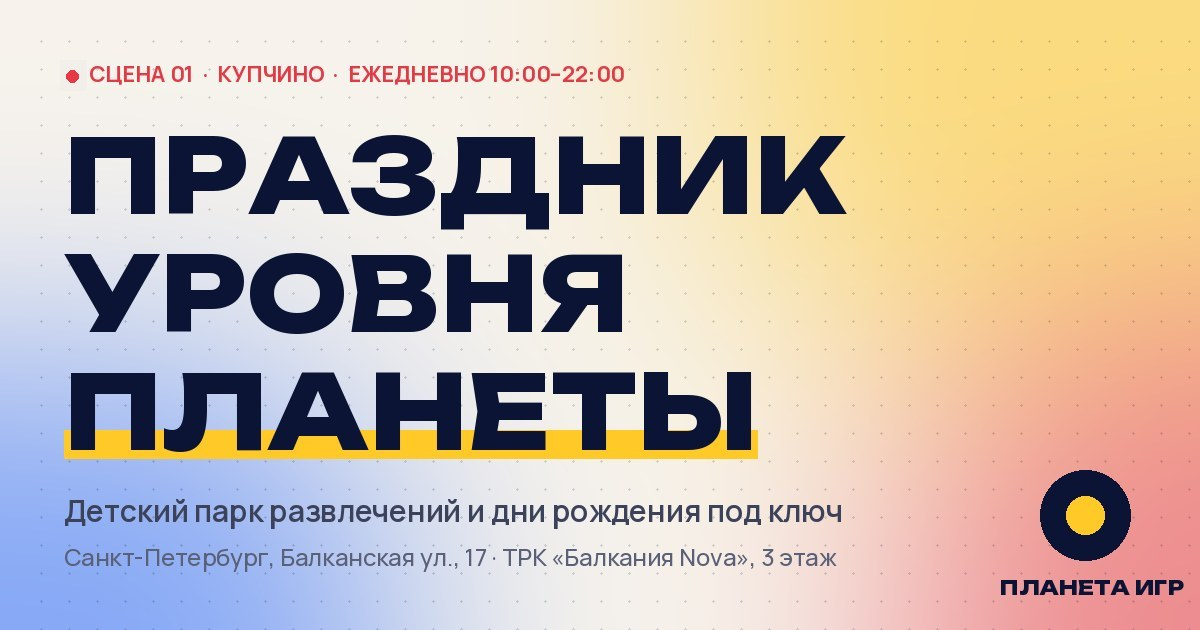
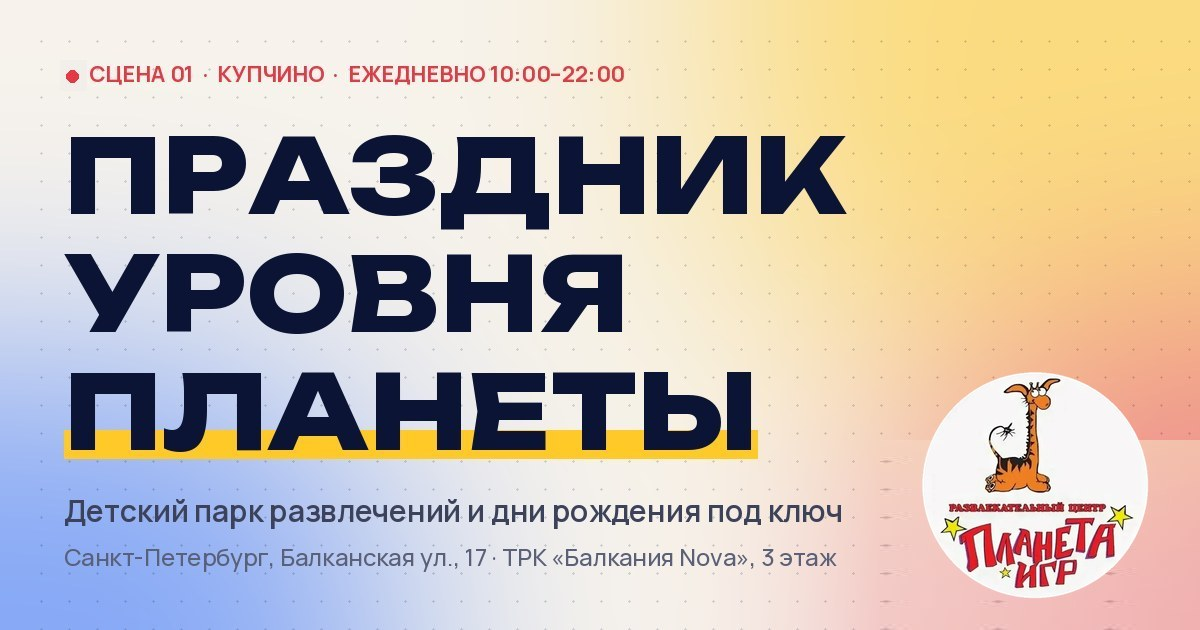
фирменный логотип (жираф) в шапке, подвале, документах, иконках и превью

Changed region(s): [[0.7708, 0.573, 1.0, 1.0]]

diff --git a/apps/api/src/services/render-doc.ts b/apps/api/src/services/render-doc.ts
@@ -26,12 +26,12 @@ export function mdToHtml(src: string): string {
 export function docPage(o: { title: string; html: string; updatedAt: string | null; nav: { slug: string; title: string }[]; company: string; phone: string; current: string }) {
   const date = o.updatedAt ? new Date(o.updatedAt).toLocaleDateString('ru-RU', { day: 'numeric', month: 'long', year: 'numeric' }) : '';
   return `<!doctype html><html lang="ru"><head><meta charset="utf-8"><meta name="viewport" content="width=device-width,initial-scale=1"><meta name="robots" content="noindex,follow">
-<title>${esc(o.title)} — ${esc(o.company || 'Планета Игр')}</title><link rel="icon" href="/favicon.svg" type="image/svg+xml">
+<title>${esc(o.title)} — ${esc(o.company || 'Планета Игр')}</title><link rel="icon" href="/favicon.png" type="image/png">
 <style>
 :root{--ink:#101633;--paper:#f7f3ea;--mute:#5a6079;--line:rgba(16,22,51,.12);--red:#e2231a;--yellow:#ffc72c}
 *{box-sizing:border-box}body{margin:0;background:var(--paper);color:var(--ink);font:16px/1.6 Manrope,system-ui,-apple-system,"Segoe UI",Roboto,sans-serif;-webkit-font-smoothing:antialiased}
 a{color:inherit}.top{display:flex;flex-wrap:wrap;gap:12px 24px;align-items:center;justify-content:space-between;padding:20px clamp(16px,4vw,48px);border-bottom:1px solid var(--line)}
-.logo{font-weight:800;text-transform:uppercase;letter-spacing:.02em;text-decoration:none;display:flex;gap:10px;align-items:center}.logo svg{width:30px;height:30px}
+.logo{font-weight:800;text-transform:uppercase;letter-spacing:.02em;text-decoration:none;display:flex;gap:10px;align-items:center}.logo img{width:34px;height:34px;border-radius:50%}
 .nav{display:flex;flex-wrap:wrap;gap:6px 18px;font-size:.85rem;font-weight:600}.nav a{text-decoration:none;padding:6px 0;border-bottom:2px solid transparent}.nav a.on{border-color:var(--red)}
 main{max-width:820px;margin:0 auto;padding:clamp(28px,5vw,64px) clamp(16px,4vw,48px) 80px}
 .label{font:600 .7rem/1 ui-monospace,Menlo,monospace;letter-spacing:.18em;text-transform:uppercase;color:var(--mute)}
@@ -41,7 +41,7 @@ table{border-collapse:collapse;width:100%;margin:10px 0 20px}td{padding:10px 12p
 .foot{margin-top:60px;padding-top:20px;border-top:1px solid var(--line);font-size:.82rem;color:var(--mute);display:flex;flex-wrap:wrap;gap:8px 24px;justify-content:space-between}
 .btn{display:inline-block;background:var(--ink);color:#fff;text-decoration:none;padding:12px 20px;border-radius:999px;font-weight:700;font-size:.9rem}
 </style></head><body>
-<header class="top"><a class="logo" href="/"><svg viewBox="0 0 48 48" fill="none" aria-hidden="true"><circle cx="24" cy="24" r="13" fill="#1f5fd6"/><path d="M13 19c4-3 9-4 15-3 4 1 7 3 8 6" stroke="#22a559" stroke-width="3.2" stroke-linecap="round"/><path d="M12 27c5 3 12 4 19 1" stroke="#ffc72c" stroke-width="3.2" stroke-linecap="round"/><ellipse cx="24" cy="26" rx="21" ry="7" stroke="#e2231a" stroke-width="2.6" transform="rotate(-18 24 26)"/></svg>Планета Игр</a>
+<header class="top"><a class="logo" href="/"><img src="/logo.png" alt="" width="34" height="34">Планета Игр</a>
 <nav class="nav">${o.nav.map((n) => `<a href="/docs/${esc(n.slug)}"${n.slug === o.current ? ' class="on"' : ''}>${esc(n.title)}</a>`).join('')}</nav></header>
 <main><span class="label">Документы</span><h1>${esc(o.title)}</h1>${o.html}
 <div class="foot"><span>${date ? `Редакция от ${date}` : ''}</span><span>${esc(o.company)}${o.phone ? ` · ${esc(o.phone)}` : ''}</span></div>

diff --git a/apps/web/src/styles/site.css b/apps/web/src/styles/site.css
@@ -47,7 +47,8 @@
 .hdr.solid{background:rgba(247,243,234,.86);backdrop-filter:blur(14px);-webkit-backdrop-filter:blur(14px);box-shadow:0 1px 0 var(--c-line)}
 .hdr.solid .wrap{padding-block:12px}
 .logo{display:flex;align-items:center;gap:12px;font-family:var(--f-display);font-weight:800;font-size:.95rem;letter-spacing:.02em;text-transform:uppercase}
-.logo svg{width:38px;height:38px}
+.logo img{width:44px;height:44px;border-radius:50%;box-shadow:0 2px 10px rgba(11,20,53,.18);background:#fff}
+.ftr .logo img{width:52px;height:52px}
 .logo small{display:block;font:600 .6rem/1 var(--f-mono);letter-spacing:.2em;color:var(--c-mute);margin-top:4px}
 .nav{display:flex;gap:clamp(14px,2vw,30px);font-weight:600;font-size:.92rem}
 .nav a{position:relative;padding:6px 0}
@@ -323,3 +324,7 @@
 
 html,body{overflow-x:clip}
 .scene-head>*{min-width:0}
+.consent .chk-row span{font:500 .82rem/1.45 var(--f-body);letter-spacing:0;text-transform:none;color:var(--c-mute)}
+.consent .chk-row a{color:var(--c-ink);font-weight:700}
+.logo img{width:56px;height:56px}.ftr .logo img{width:72px;height:72px}
+@media (max-width:640px){.logo img{width:46px;height:46px}}
